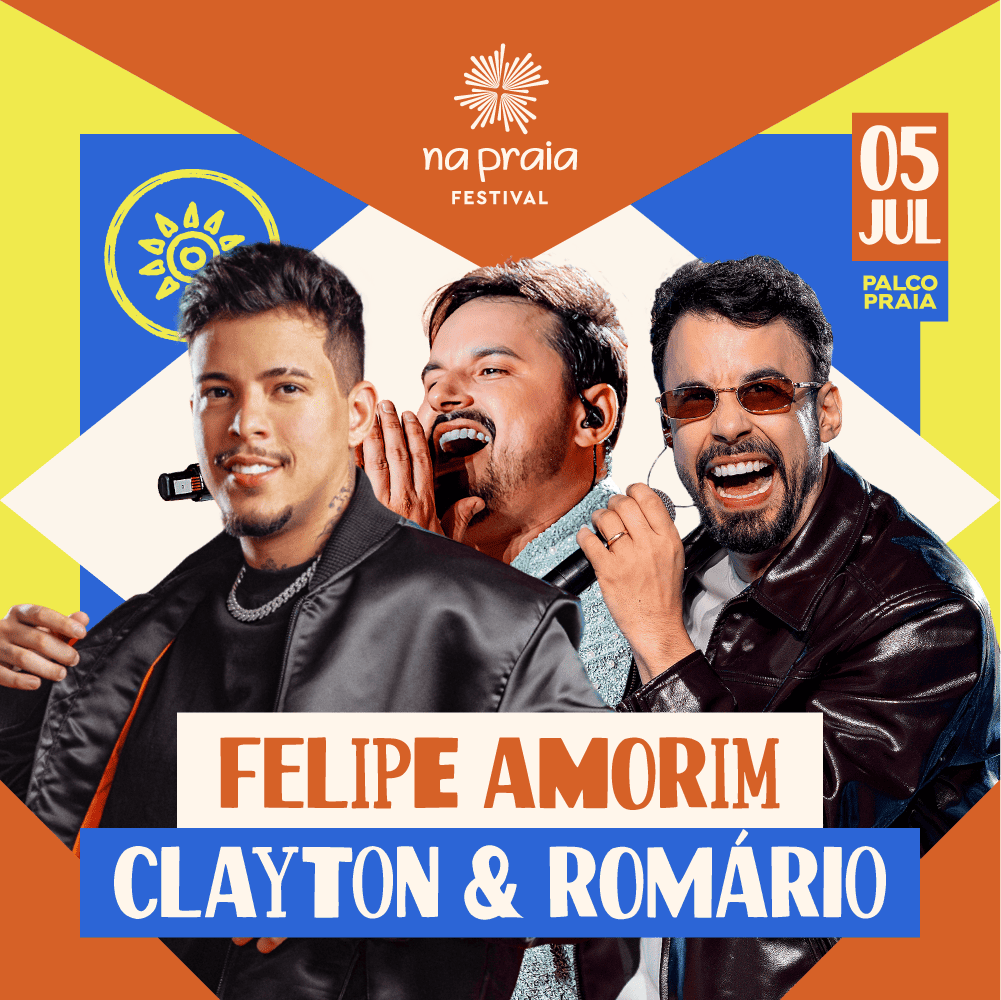
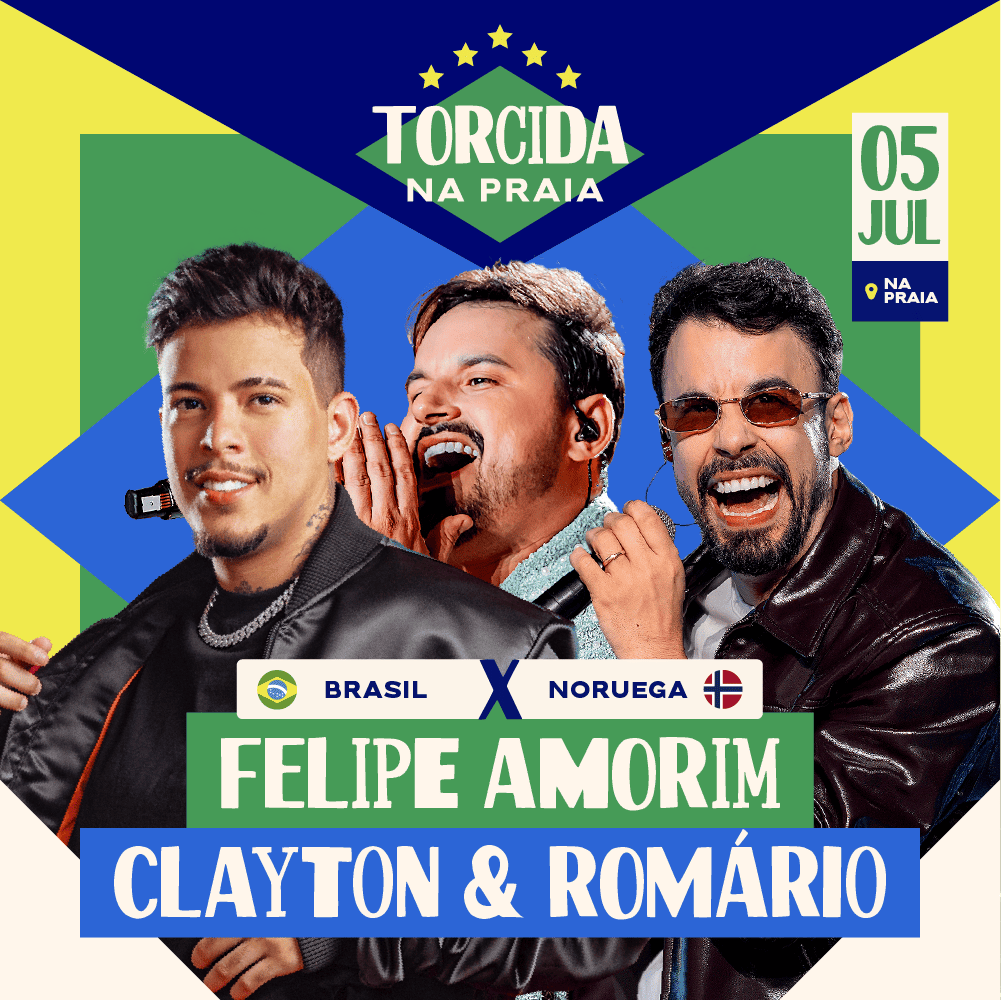
feat: 3 cards no product chooser + layout desktop 3 colunas
- Adiciona card Dia na Praia Domingo (programacao completa) entre sabado e Torcida na Praia
- Desktop: grid 3 colunas iguais (sabado nao e mais full-width)
- Atualiza banner da Torcida na Praia (Banner 01 - 1000x1000px)
- Label seccao atualizado para 'Tres produtos . Um destino'

diff --git a/index.html b/index.html
@@ -93,7 +93,7 @@
   <section class="product-chooser" id="ingressos">
     <div class="container">
       <div class="section-header" data-animate>
-        <p class="label">Dois produtos · Um destino</p>
+        <p class="label">Três produtos · Um destino</p>
         <h2>Como você quer curtir a praia?</h2>
         <div class="kv-stripes"><span></span><span></span><span></span></div>
       </div>
@@ -126,7 +126,35 @@
           </div>
         </a>
 
-        <!-- CARD 2: Torcida na Praia (Domingo) -->
+        <!-- CARD 2: Domingo Dia de Praia -->
+        <a href="https://r2.com.vc/produto/05-07-dia-na-praia-domingo" class="product-chooser__card" data-pc-date="2026-07-05" data-pc-type="domingo-dia" data-pc-slug="dia-na-praia-domingo" target="_blank" rel="noopener">
+          <div class="pc-card__photo">
+            <img src="cards-praia/10-08-Te-Vejo-Na-Praia-fercoutinho-shakeitbsb-013.png" alt="Domingo Dia de Praia — Na Praia Parque" loading="lazy" style="object-position:center 20%">
+            <div class="pc-card__photo-overlay">
+              <span class="pc-card__tag">Domingos · 08h às 17h · entrada até 14h</span>
+              <h3 class="pc-card__name">Domingo na Praia</h3>
+              <span class="pc-card__event-date">05 Jul</span>
+            </div>
+          </div>
+          <div class="pc-card__body">
+            <ul class="pc-card__schedule">
+              <li><span class="pc-sched__time">08h00</span> Abertura Piscinas · Espaço Giraffas</li>
+              <li><span class="pc-sched__time">09h00</span> Yoga · Rodolfo Velcas</li>
+              <li><span class="pc-sched__time">09h00</span> Arvorismo Marista · Piquenique</li>
+              <li><span class="pc-sched__time">09h30</span> Futevôlei Life Style</li>
+              <li><span class="pc-sched__time">09h30</span> Funcional · SmartFit</li>
+              <li><span class="pc-sched__time">10h30</span> Beach Tennis Life Style</li>
+              <li><span class="pc-sched__time">10h30</span> FitDance · SmartFit</li>
+              <li><span class="pc-sched__time">10h30</span> Circuito e Dança</li>
+              <li><span class="pc-sched__time">12h30</span> Teatro: Viva São João</li>
+              <li><span class="pc-sched__time">13h30</span> Recreação Splash</li>
+              <li><span class="pc-sched__time">15h00</span> Altinha na Praia</li>
+            </ul>
+            <span class="btn btn--primary pc-card__cta">Comprar ingresso →</span>
+          </div>
+        </a>
+
+        <!-- CARD 3: Torcida na Praia (Domingo) -->
         <a href="https://r2.com.vc/produto/05-07-felipe-amorim-clayton-romario-torcida-na-praia/" class="product-chooser__card product-chooser__card--noite" data-pc-date="2026-07-05" data-pc-type="entardecer" data-pc-slug="felipe-amorim-clayton-romario-torcida-na-praia" target="_blank" rel="noopener">
           <div class="pc-card__photo">
             <img src="shows_domingo/banner-torcida-na-praia-05-07.png" alt="Torcida na Praia — Felipe Amorim + Clayton & Romário" loading="lazy" style="object-position:center center">

diff --git a/styles.css b/styles.css
@@ -1036,10 +1036,10 @@ em { font-style: normal; color: var(--coral); }
   .product-chooser { padding: 2.25rem 0 2rem; }
   .product-chooser .section-header { margin-bottom: 1rem; }
   .product-chooser__grid {
-    grid-template-columns: repeat(2, 1fr);
+    grid-template-columns: repeat(3, 1fr);
     gap: 1rem; margin-top: 1rem;
   }
-  /* Sábado deixa de ser full-width no desktop — ocupa 1 das 2 colunas */
+  /* Sábado ocupa 1 das 3 colunas — mesmo tamanho dos demais */
   .product-chooser__card--sabado { grid-column: auto; }
   /* Mostra todos os itens no desktop */
   .product-chooser__card .pc-card__schedule li { display: flex; }
